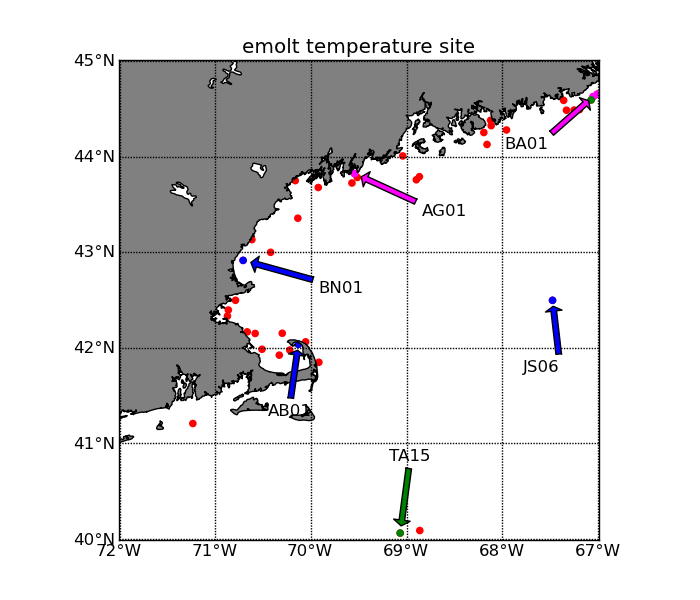
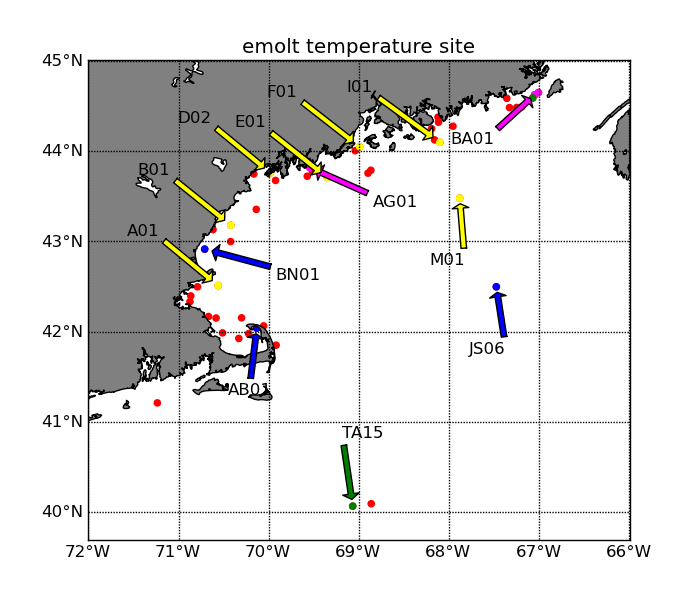
update with site map

diff --git a/modvsobs/sitemap.py b/modvsobs/sitemap.py
@@ -4,7 +4,14 @@ Created on Fri Feb 22 11:21:21 2013
 
 @author: jmanning
 """
-
+'''
+we don't have below sites in the ProcessedSite.csv list 
+which means we didn't process below site data.
+ba03
+dj02
+RS01
+SK01
+'''
 
 import pandas as pd
 import matplotlib.pyplot as plt
@@ -14,8 +21,9 @@ import numpy as np
 threesite=['AB01','JS06','BN01']
 surfacesite=['AG01','BA01','BA02','BA03']
 salinitysite=['NL01','JT04','DJ02','RS01','TA15','SK01']
+NERACOOS=['A01','B01','D02','E01','F01','I01','M01','N01']
 df=pd.read_csv('ProcessedSite.csv',sep=',',skiprows=1,index_col=0,names=['site','lat','lon'])
-for i in range(len(df)):
+for i in range(len(df)-8):
     (a,b)=divmod(float(df['lat'][i]),100)   
     aa=int(a)
     bb=float(b)
@@ -24,8 +32,8 @@ for i in range(len(df)):
     cc=int(c)
     dd=float(d)
     df['lon'][i]=cc+(dd/60)
-latsize=[40.0,45.0]
-lonsize=[-72.,-67.0]
+latsize=[39.7,45.0]
+lonsize=[-72.,-66.0]
 plt.figure(figsize=(7,6))
 m = Basemap(projection='cyl',llcrnrlat=min(latsize)-0.01,urcrnrlat=max(latsize)+0.01,\
             llcrnrlon=min(lonsize)-0.01,urcrnrlon=max(lonsize)+0.01,resolution='h')#,fix_aspect=False)
@@ -38,7 +46,7 @@ x, y = m(-df['lon'].values,df['lat'].values)
 m.scatter(x,y,20,marker='o',color='r')
 for i in range(len(x)):
     if df.index[i] in threesite:
-             print df.index[i]
+             print df.index[i],df['lat'][i],df['lon'][i]
              m.scatter(x[i],y[i],20,marker='o',color='blue')
              if df.index[i]=='BN01':
                  plt.annotate(df.index[i],xy=(x[i],y[i]),xytext=(x[i]+0.81,y[i]-0.35),arrowprops=dict(facecolor='blue', shrink=0.1))#facecolor='black',));
@@ -46,7 +54,7 @@ for i in range(len(x)):
                  plt.annotate(df.index[i],xy=(x[i],y[i]),xytext=(x[i]-0.31,y[i]-0.75),arrowprops=dict(facecolor='blue', shrink=0.1))#facecolor='black',));
                  #plt.annotate(df.index[i],xy=(x[i],y[i]),xytext=(x[i]-0.31,y[i]-0.75),arrowprops=dict(arrowstyle="-|>",shrink=0.1))#connectionstyle="arc3,rad=-0.2",fc="w"));
     if df.index[i] in surfacesite:
-             print df.index[i]
+             print df.index[i],df['lat'][i],df['lon'][i]
              m.scatter(x[i],y[i],20,marker='o',color='magenta')
              if df.index[i]=='BA01':
                  plt.annotate(df.index[i],xy=(x[i],y[i]),xytext=(x[i]-0.91,y[i]-0.55),arrowprops=dict(shrink=0.1,facecolor='magenta'))#connectionstyle="arc3,rad=-0.2",fc="w"));
@@ -54,13 +62,19 @@ for i in range(len(x)):
                  plt.annotate(df.index[i],xy=(x[i],y[i]),xytext=(x[i]+0.71,y[i]-0.45),arrowprops=dict(shrink=0.1,facecolor='magenta'))#connectionstyle="arc3,rad=-0.2",fc="w"));
 
     if df.index[i] in salinitysite:
-             print df.index[i]
+             print df.index[i],df['lat'][i],df['lon'][i]
              m.scatter(x[i],y[i],20,marker='o',color='green')
              if df.index[i]=='RS01':
                  plt.annotate(df.index[i],xy=(x[i],y[i]),xytext=(x[i]-1.01,y[i]+0.55),arrowprops=dict(shrink=0.1,facecolor='green'))
              elif df.index[i]=='TA15':
                  plt.annotate(df.index[i],xy=(x[i],y[i]),xytext=(x[i]-0.11,y[i]+0.75),arrowprops=dict(shrink=0.1,facecolor='green'))
-                 
+    if df.index[i] in NERACOOS:
+             print df.index[i],df['lat'][i],df['lon'][i]
+             m.scatter(x[i],y[i],20,marker='o',color='yellow')
+             if df.index[i]=="M01":
+                  plt.annotate(df.index[i],xy=(x[i],y[i]),xytext=(x[i]-0.31,y[i]-0.75),arrowprops=dict(shrink=0.1,facecolor='yellow'))
+             else:
+                  plt.annotate(df.index[i],xy=(x[i],y[i]),xytext=(x[i]-1.01,y[i]+0.55),arrowprops=dict(shrink=0.1,facecolor='yellow'))
 
 if len(x)<=10:
      for i in range(len(x)):
